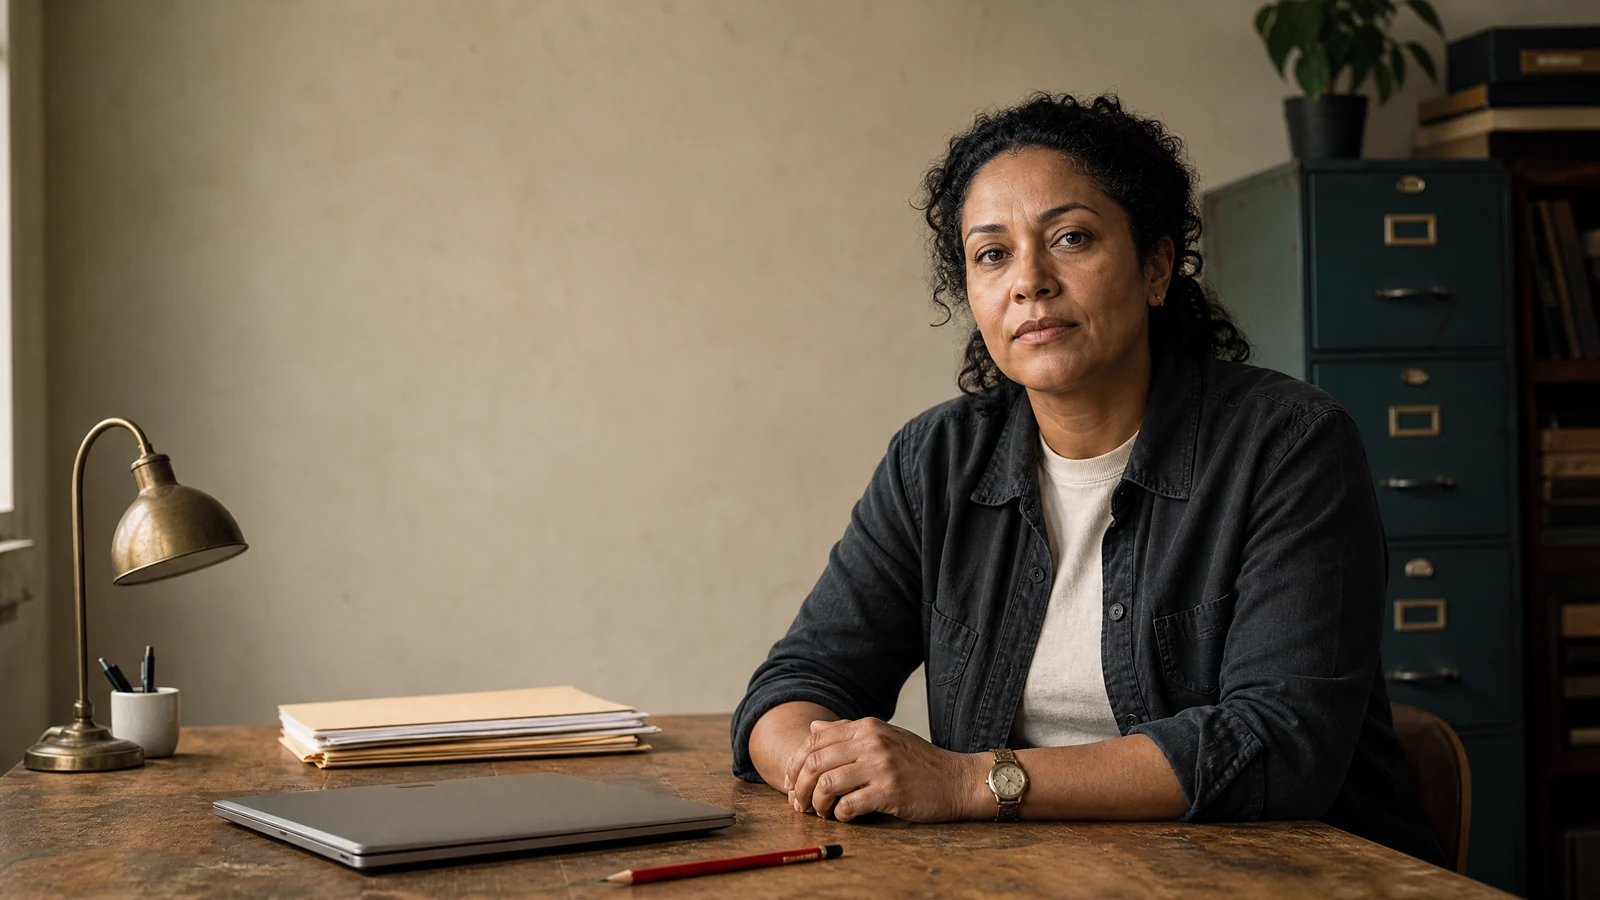
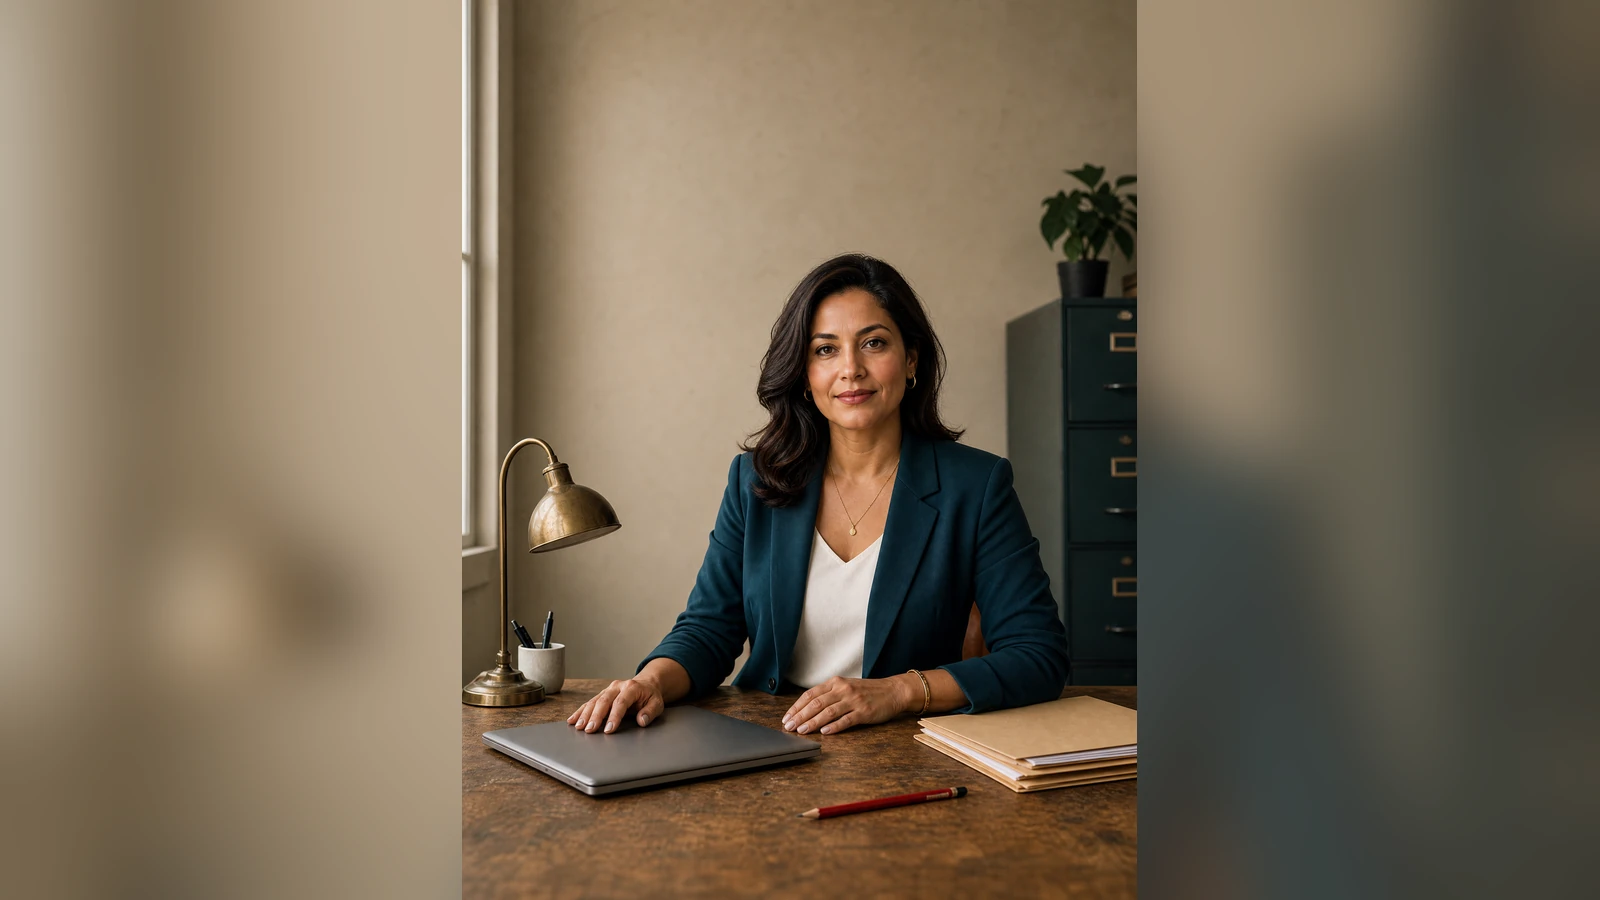
Publish Core Cell v1.2.0 founder and no-overlap hero

diff --git a/tried-ai/styles.css b/tried-ai/styles.css
@@ -1449,6 +1449,204 @@ h1 {
   }
 }
 
+/* v1.2.0 — camera-ready founder, strict no-overlap hero.
+   Copy and photography remain separate fields at every breakpoint. */
+.hero {
+  width: min(calc(100% - 64px), 1280px);
+  min-height: calc(100svh - 80px);
+  display: grid;
+  grid-template-columns: minmax(0, 1.08fr) minmax(340px, 0.72fr);
+  align-items: center;
+  gap: clamp(2.5rem, 5vw, 5.5rem);
+  padding: clamp(3.2rem, 5vw, 5.8rem) 0;
+  overflow: visible;
+  isolation: auto;
+}
+
+.hero-copy {
+  position: relative;
+  z-index: 1;
+  width: 100%;
+  min-height: 0;
+  padding: 0;
+}
+
+.hero-media {
+  position: relative;
+  z-index: 1;
+  inset: auto;
+  width: 100%;
+  margin: 0;
+  padding-left: clamp(1.5rem, 2.6vw, 2.5rem);
+  display: grid;
+  gap: 1rem;
+  overflow: visible;
+  pointer-events: auto;
+  border-left: 1px solid rgba(193, 139, 60, 0.72);
+  background: transparent;
+}
+
+.hero-media::after {
+  display: none;
+}
+
+.hero-media picture {
+  position: relative;
+  inset: auto;
+  width: 100%;
+  height: auto;
+  display: flex;
+  justify-content: center;
+  -webkit-mask-image: none;
+  mask-image: none;
+}
+
+.hero-media img {
+  display: block;
+  width: min(100%, 470px);
+  height: auto;
+  aspect-ratio: 3 / 4;
+  margin: 0 auto;
+  object-fit: cover;
+  object-position: center;
+  filter: saturate(0.96) contrast(1.02);
+  box-shadow: 0 28px 70px rgba(17, 23, 25, 0.16);
+}
+
+.hero-media figcaption {
+  width: min(100%, 470px);
+  margin: 0 auto;
+  padding: 0.2rem 0 0.2rem 1rem;
+  border-left: 3px solid var(--red);
+  color: var(--ink-soft);
+  font-size: 0.78rem;
+  line-height: 1.45;
+}
+
+.hero-media figcaption strong {
+  margin-right: 0.45rem;
+  color: var(--red);
+  font-size: 0.65rem;
+  font-weight: 850;
+  letter-spacing: 0.12em;
+  text-transform: uppercase;
+}
+
+@media (max-width: 1080px) {
+  .hero {
+    width: min(calc(100% - 48px), 940px);
+    min-height: auto;
+    grid-template-columns: minmax(0, 1fr) minmax(300px, 0.72fr);
+    gap: 2rem;
+    padding: 3.2rem 0;
+  }
+
+  .hero-copy {
+    width: 100%;
+    padding: 0;
+  }
+
+  .hero-media {
+    padding-left: 1.3rem;
+  }
+
+  .hero-media picture {
+    width: 100%;
+    -webkit-mask-image: none;
+    mask-image: none;
+  }
+
+  .hero-media img {
+    width: min(100%, 390px);
+    object-position: center;
+  }
+
+  .hero-media::after {
+    display: none;
+  }
+}
+
+@media (max-width: 760px) {
+  .hero {
+    width: min(calc(100% - 32px), 720px);
+    min-height: 0;
+    display: flex;
+    flex-direction: column;
+    align-items: stretch;
+    gap: 0;
+    padding: 1.15rem 0 2.4rem;
+    border: 0;
+  }
+
+  .hero-copy {
+    order: 1;
+    width: 100%;
+    min-height: 0;
+    padding: 0;
+  }
+
+  .headline-lead {
+    max-width: none;
+    min-height: 0;
+  }
+
+  .headline-correction {
+    max-width: none;
+  }
+
+  .hero-media {
+    order: 2;
+    position: relative;
+    inset: auto;
+    width: 100%;
+    margin: 2rem 0 0;
+    padding: 0;
+    display: grid;
+    gap: 0.9rem;
+    border-left: 0;
+    overflow: visible;
+  }
+
+  .hero-media picture {
+    position: relative;
+    inset: auto;
+    width: 100%;
+    height: auto;
+    display: block;
+  }
+
+  .hero-media img {
+    width: min(100%, 420px);
+    height: auto;
+    aspect-ratio: 3 / 4;
+    object-fit: contain;
+    object-position: center;
+    box-shadow: 0 20px 44px rgba(17, 23, 25, 0.14);
+  }
+
+  .hero-media figcaption {
+    width: calc(100% - 2rem);
+    margin: 0 auto;
+    padding-left: 0.9rem;
+    color: var(--ink-soft);
+    background: transparent;
+  }
+
+  .hero-media::after {
+    display: none;
+  }
+}
+
+@media (max-width: 390px) {
+  .hero {
+    padding-top: 0.8rem;
+  }
+
+  .hero-copy {
+    padding: 0;
+  }
+}
+
 @media print {
   .site-header,
   .hero-media figcaption,

diff --git a/tried-ai/index.html b/tried-ai/index.html
@@ -32,7 +32,7 @@
     <meta property="og:image:type" content="image/jpeg" />
     <meta
       property="og:image:alt"
-      content="A skeptical small-business owner at her workshop desk"
+      content="A polished small-business founder at her workshop desk"
     />
     <meta name="twitter:card" content="summary_large_image" />
     <meta
@@ -49,7 +49,7 @@
     />
     <meta
       name="twitter:image:alt"
-      content="A skeptical small-business owner at her workshop desk"
+      content="A polished small-business founder at her workshop desk"
     />
 
     <title>The Honest Version of AI for Your Business — CREATAIV Core Cell</title>
@@ -70,7 +70,7 @@
     </script>
   </head>
   <body>
-    <!-- CREATAIV Core Cell “You Tried AI” door site · v1.1.0 · 2026-07-29 -->
+    <!-- CREATAIV Core Cell “You Tried AI” door site · v1.2.0 · 2026-07-29 -->
     <a class="skip-link" href="#main">Skip to the honest part</a>
 
     <header class="site-header" aria-label="Primary navigation">
@@ -99,7 +99,7 @@
     </header>
 
     <main id="main">
-      <section class="hero" id="top" aria-labelledby="hero-title">
+      <section class="hero" id="top" aria-labelledby="hero-title" data-release="v1.2.0">
         <div class="hero-copy">
           <p class="eyebrow"><span>Truth</span> For the owner who already tried it</p>
           <h1 id="hero-title">
@@ -150,17 +150,18 @@
           </dl>
         </div>
 
-        <figure class="hero-media">
+        <figure class="hero-media" aria-label="Camera-ready small-business founder at her workshop desk">
           <picture>
             <source media="(max-width: 1080px)" srcset="assets/hero-mobile.webp" />
             <img
               src="assets/hero-desktop.webp"
-              width="1600"
-              height="900"
-              alt="A capable small-business owner sitting at her workshop desk with a skeptical, attentive expression"
+              width="900"
+              height="1200"
+              alt="A polished small-business founder seated at her workshop desk beside a closed, unbranded laptop"
               fetchpriority="high"
             />
           </picture>
+          <figcaption><strong>Field note</strong> A party trick is not a business system.</figcaption>
         </figure>
       </section>
 
